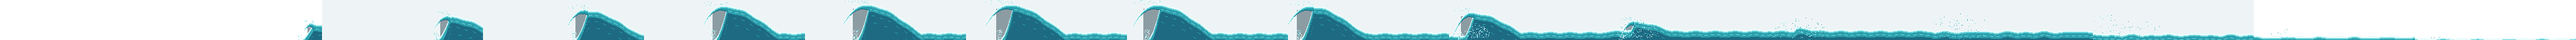
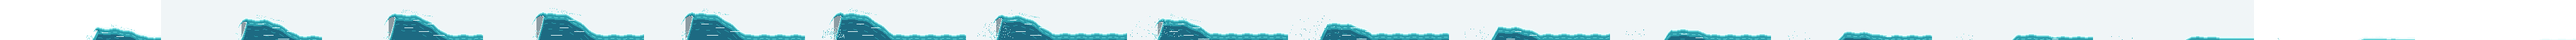
Beach bosses: real lamia strips, naga tide charge and sprites; paths for fury slaps and coil crush

Changed region(s): [[0.0938, 0.1562, 1.0, 1.0], [0.0312, 0.7188, 0.0625, 1.0]]

diff --git a/src/ui/bossAttacks.js b/src/ui/bossAttacks.js
@@ -106,7 +106,7 @@ export function bossAttackTiming(boss, id) {
     const attack = (bossAttacks[boss] || []).find((a) => a.id == id);
     if (!attack) return null;
     const sceneFrames = attack.scene ? sceneSpells[attack.scene] : 0;
-    const hitAt = attack.scene ? attack.sceneAt + Math.floor(sceneFrames / 2)
+    const hitAt = attack.hit != null ? attack.hit : attack.scene ? attack.sceneAt + Math.floor(sceneFrames / 2)
         : attack.path ? attack.path.indexOf(Math.min(...attack.path)) : Math.floor(attack.frames * 0.6);
     const total = Math.max(attack.frames, attack.scene ? attack.sceneAt + sceneFrames + DISSIPATE : 0);
     return { attack, hitMs: hitAt * 100, totalMs: total * 100 };
@@ -148,7 +148,7 @@ export function playBossAttack(boss, chosen, stone, onHit) {
     const sceneFrames = attack.scene ? sceneSpells[attack.scene] : 0;
     const total = Math.max(attack.frames, attack.scene ? attack.sceneAt + sceneFrames + DISSIPATE : 0);
     // the blow lands when the scene spell reaches the wizard, at the end of a charge, or late in the swing
-    const hitAt = attack.scene ? attack.sceneAt + Math.floor(sceneFrames / 2)
+    const hitAt = attack.hit != null ? attack.hit : attack.scene ? attack.sceneAt + Math.floor(sceneFrames / 2)
         : attack.path ? attack.path.indexOf(Math.min(...attack.path)) : Math.floor(attack.frames * 0.6);
     const [bx, by, bw] = npcBox(boss);
     const k = bw / 64;                                  // screen px per art px

diff --git a/src/data/bossAttacks.js b/src/data/bossAttacks.js
@@ -74,8 +74,8 @@ export const bossAttacks = {
     ],
     greater_naga: [
         { id: "tide_charge", frames: 18, scene: "tide_charge", sceneAt: 2, path: [0, 0, -20, -39, -59, -79, -98, -118, -118, -118, -114, -98, -79, -59, -39, -20, 0, 0] },
-        { id: "fury_slaps", frames: 12 },
-        { id: "coil_crush", frames: 11 },
+        { id: "fury_slaps", frames: 12, hit: 6, path: [0, -30, -80, -118, -118, -118, -118, -118, -118, -90, -45, 0] },      // jumps to the wizard, spins like a tornado
+        { id: "coil_crush", frames: 11, hit: 6, path: [0, -30, -70, -118, -118, -118, -118, -118, -80, -40, 0] },      // approaches, flips, stretches the tail
     ],
     arcangel: [
         { id: "lightning", frames: 10, scene: "lightning", sceneAt: 2 },

diff --git a/CHANGELOG.md b/CHANGELOG.md
@@ -1,6 +1,7 @@
 # Changelog
 
 ## Unreleased
+- The beach bosses have their real art: the lamia's maelstrom, tidal wave and serpent gaze, the greater naga's tide charge (a tide carries him along with its own wave scene) and both redrawn sprites. His fury slaps and coil crush still use stand-ins: he now jumps to the wizard and the strips are being redrawn (a spin like a tornado, and a flip with a short tail stretch).
 - The Beach's last scene is now number 5 (it was 6, so the Beach had no scene 5 and a random scene number could pick a missing background). The scene file, its map spot and its travel links were renamed. The new maelstrom scene spell for the lamia is in too.
 - Beach bosses: the lamia's sea jump is faster (20 steps instead of 30) and the greater naga now bursts out of the sand: a bigger mound of beach sand that trembles, then throws far more grains much higher as he rises. In the dev tests every boss has its own line (the lamia and the greater naga are no longer one "lamia / greater naga" entry) and the chosen one is the one that comes.
 - The lamia's sea jump now starts inside the visible sea (small, over the water at the right) instead of off the scene's edge. The lamia and the greater naga are now drawn at the medium boss size (as Medusa) instead of in a small 32 px box. The greater naga keeps rising from the sand.

diff --git a/ideas.md b/ideas.md
@@ -187,3 +187,4 @@ Newest first; keep the last three, cut older ones to the archive.
 - 2026-11-20 (dev): lamia jump starts in the visible sea; lamia and greater naga added to the medium boss box (render.js npcBox); the greater naga keeps the sand rise (author likes it).
 - 2026-11-20 (dev): lamia jump faster; greater naga sandBurst entrance (burrow with a sand palette, bigger); dev console lists one boss per line (run.forceBoss). Artist asked for the real beach boss powers.
 - 2026-11-20 (dev): la_playa6 renamed la_playa5 (the Beach now has scenes 1-5; the author's numbering slip). Maelstrom scene spell final art wired; tidal wave art awaits the author's verdict.
+- 2026-11-20 (dev): lamia strips, naga tide charge (strip + scene) and both 64 px sprites wired; fury slaps and coil crush get a path (he moves to the wizard) and an optional attack.hit frame; their strips are being redone by the artist.
